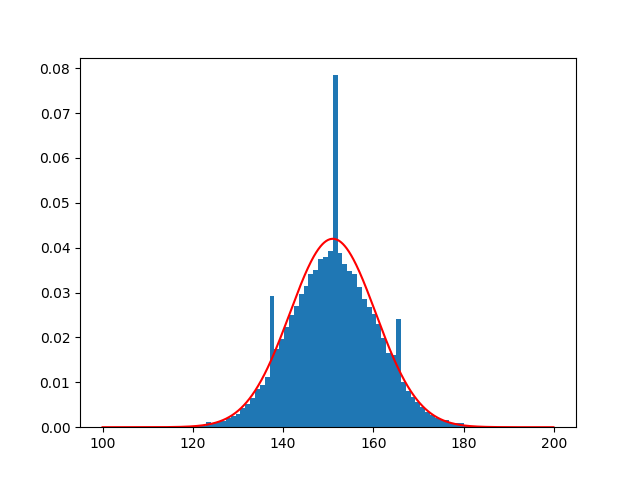
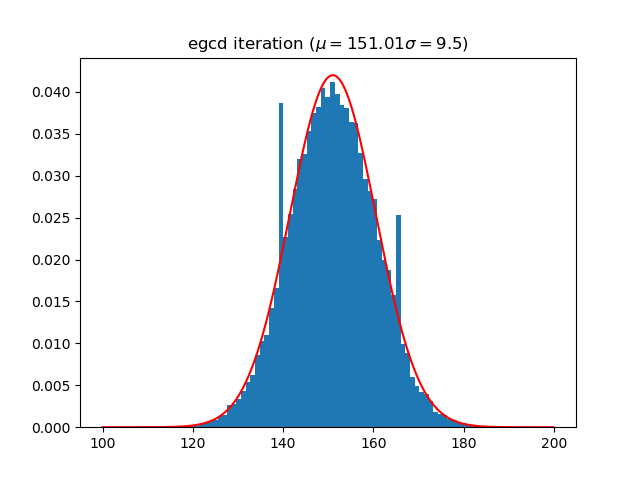
分析まで完成

diff --git a/ec_elgamal.py b/ec_elgamal.py
@@ -10,6 +10,8 @@ import inspect
 from tqdm import tqdm
 import numpy as np
 from scipy.stats import norm
+import statistics as stat
+import scipy.stats as stats
 import matplotlib.pyplot as plt
 
 # =============================
@@ -21,16 +23,17 @@ BIT = 256
 A = 0x0000000000000000000000000000000000000000000000000000000000000000
 B = 0x0000000000000000000000000000000000000000000000000000000000000007
 N = 100
+P_DOUBLE = 5/6
+P_ADD = 2/3
 LOOP = 1000
 
 # =============================
 # variables for analysis
 # =============================
-all_mult = 0
-all_reduction = 0
 egcd_count_list = []
 mult_list = []
 reduction_list = []
+total_list = []
 
 # =============================
 # classes
@@ -79,38 +82,38 @@ opr = Operation()
 # Extended Euclidean algorithm
 ### Measured value: 大体453.2496669540005
 def egcd(a: int, b: int):
-    global opr, egcd_count_list
-    (x, lastx) = (0, 1)
-    (y, lasty) = (1, 0)
+  global opr, egcd_count_list
+  (x, lastx) = (0, 1)
+  (y, lasty) = (1, 0)
 
-    egcd_count = 0
-    if calledFromElGamalDec():
-      while b != 0:
-        egcd_count += 1
-        q = opr.div(a, b)
-        (a, b) = (b, a - opr.multiply(q, b))
-        (x, lastx) = (lastx - opr.multiply(q, x), x)
-        (y, lasty) = (lasty - opr.multiply(q, y), y)
-      egcd_count_list.append(egcd_count)
-    else:
-      while b != 0:
-        q = opr.div(a, b)
-        (a, b) = (b, a - opr.multiply(q, b))
-        (x, lastx) = (lastx - opr.multiply(q, x), x)
-        (y, lasty) = (lasty - opr.multiply(q, y), y)
+  egcd_count = 0
+  if calledFromElGamalDec():
+    while b != 0:
+      egcd_count += 1
+      q = opr.div(a, b)
+      (a, b) = (b, a - opr.multiply(q, b))
+      (x, lastx) = (lastx - opr.multiply(q, x), x)
+      (y, lasty) = (lasty - opr.multiply(q, y), y)
+    egcd_count_list.append(egcd_count)
+  else:
+    while b != 0:
+      q = opr.div(a, b)
+      (a, b) = (b, a - opr.multiply(q, b))
+      (x, lastx) = (lastx - opr.multiply(q, x), x)
+      (y, lasty) = (lasty - opr.multiply(q, y), y)
 
-    # while b != 0:
-    #   q = opr.div(a, b)
-    #   (a, b) = (b, a - opr.multiply(q, b))
-    #   (x, lastx) = (lastx - opr.multiply(q, x), x)
-    #   (y, lasty) = (lasty - opr.multiply(q, y), y)
-    return (lastx, lasty, a)
+  # while b != 0:
+  #   q = opr.div(a, b)
+  #   (a, b) = (b, a - opr.multiply(q, b))
+  #   (x, lastx) = (lastx - opr.multiply(q, x), x)
+  #   (y, lasty) = (lasty - opr.multiply(q, y), y)
+  return (lastx, lasty, a)
 
 # ax ≡ 1 (mod m)
 def modinv(a: int, m: int):
-    global opr
-    (inv, _, _) = egcd(a, m)
-    return opr.modulo(inv, m) # not perform reductions.
+  global opr
+  (inv, _, _) = egcd(a, m)
+  return opr.modulo(inv, m) # not perform reductions.
 
 # return true if called from ElGamalDec
 def calledFromElGamalDec():
@@ -205,12 +208,18 @@ if __name__ == '__main__':
   d_bit_seq = bin(d)[2:]
   t = len(d_bit_seq)
   w = d_bit_seq.count("1")
-  ### normal distribution
+
+  # analysis of distributions
   alpha = (12*math.log(2)*math.log(2**BIT))/(math.pi**2) + 1.467
   iteration = (t+w-1)
-
+  root = 9.5
   mu_mult = (t-1)*(3*alpha+6)+w*(3*alpha+3)
-  sigma = 9.5*3*math.sqrt(iteration)
+  mu_reduction = alpha*(t+w-1)+3*(t-1)*P_DOUBLE+3*w*P_ADD
+  sigma_mult = 3*root*math.sqrt(iteration)
+  sigma_reduction = root*math.sqrt(iteration)
+  mu = mu_mult + mu_reduction
+  sigma = sigma_mult + sigma_reduction
+  # sigma = math.sqrt(sigma_mult**2 + sigma_reduction**2)
 
   PUBLIC_KEY = Binary(d, GP)
 
@@ -224,10 +233,9 @@ if __name__ == '__main__':
     opr.mult = 0
     opr.reduction = 0
     DecM = ElGamalDec(C1, C2, d)
-    all_mult += opr.mult
-    all_reduction += opr.reduction
     mult_list.append(opr.mult)
     reduction_list.append(opr.reduction)
+    total_list.append(opr.mult+opr.reduction)
 
     decPlaintext = PointToMsg(DecM)
     if plaintext == decPlaintext:
@@ -239,12 +247,34 @@ if __name__ == '__main__':
   print("PUBLIC_KEY = {0}".format(vars(PUBLIC_KEY)))
   print('d = {0} ({1}bits)'.format(d, t))
   print("Hamming weight of d: {0}".format(w))
-  print("alpha: {0}".format(alpha))
-  print("Average of egcd count (experimentally) = {0}".format(sum(egcd_count_list)/len(egcd_count_list)))
+  print("=================== egcd ==================")
+  print("Average of egcd count (theoretical, namely alpha): {0}".format(alpha))
+  print("Average of egcd count (experimental) = {0}".format(stat.mean(egcd_count_list)))
+  print("================== multiplication ===================")
   print("Average multiplication (theoretical) = {0}".format(mu_mult))
-  print("Average multiplication (experimentally) = {0}".format(all_mult/LOOP))
-  print("Distributed of multiplication (theoretical) = {0}".format(sigma))
-  print("Average reduction (experimentally) = {0}".format(all_reduction/LOOP))
+  print("Average multiplication (experimental) = {0}".format(stat.mean(mult_list)))
+  print("Standard deviation of multiplication (theoretical) = {0}".format(sigma_mult))
+  print("Standard deviation of multiplication (experimental) = {0}".format(stat.pstdev(mult_list)))
+  print("Variance value of multiplication (theoretical) = {0}".format(sigma_mult**2))
+  print("Variance value of multiplication (experimental) = {0}".format(stat.pvariance(mult_list)))
+  print("================== reduction ===================")
+  print("Average reduction (theoretical) = {0}".format(mu_reduction))
+  print("Average reduction (experimental) = {0}".format(stat.mean(reduction_list)))
+  print("Standard deviation of reduction (theoretical) = {0}".format(sigma_reduction))
+  print("Standard deviation of reduction (experimental) = {0}".format(stat.pstdev(reduction_list)))
+  print("Variance value of reduction (theoretical) = {0}".format(sigma_reduction**2))
+  print("Variance value of reduction (experimental) = {0}".format(stat.pvariance(reduction_list)))
+  print("================= total count ====================")
+  print("Average computation (theoretical) = {0}".format(mu))
+  print("Average computation (experimental) = {0}".format(stat.mean(total_list)))
+  print("Standard deviation of computation (theoretical) = {0}".format(sigma))
+  print("Standard deviation of computation (experimental) = {0}".format(stat.pstdev(total_list)))
+  print("Variance value of computation (theoretical) = {0}".format(sigma**2))
+  print("Variance value of computation (experimental) = {0}".format(stat.pvariance(total_list)))
+  print("================== check wheter normal distribution (p > 0.05) ===================")
+  print("multiply: {0}".format(stats.shapiro(mult_list)))
+  print("reduction: {0}".format(stats.shapiro(reduction_list)))
+  print("total count: {0}".format(stats.shapiro(total_list)))
 
 
   # ====================
@@ -253,22 +283,50 @@ if __name__ == '__main__':
 
   # multiplication (172000 ~ 176000)
   plt.hist(mult_list, bins=len(set(mult_list)), density=True)
-  X = np.arange(mu_mult-sigma*5, mu_mult+sigma*5, 1)
-  Y = norm.pdf(X, loc=mu_mult, scale=sigma)
+  X = np.arange(mu_mult-sigma_mult*5, mu_mult+sigma_mult*5, 1)
+  Y = norm.pdf(X, loc=mu_mult, scale=sigma_mult)
   plt.plot(X, Y, 'r-')
+  plt.title("multiplication ($\mu = {0} \ \ \sigma = {1}$)".format(round(mu_mult, 2), round(sigma_mult, 2)))
   plt.savefig("ec_elgamal_mult.png")
   plt.show()
 
   # reduction (57600 ~ 59200)
-  plt.hist(reduction_list, bins=len(set(reduction_list)))
+  plt.hist(reduction_list, bins=len(set(reduction_list)), density=True)
+  X = np.arange(mu_reduction-sigma_reduction*5, mu_reduction+sigma_reduction*5, 1)
+  Y = norm.pdf(X, loc=mu_reduction, scale=sigma_reduction)
+  plt.plot(X, Y, 'b-')
+  plt.title("reduction ($\mu = {0} \ \ \sigma = {1}$)".format(
+      round(mu_reduction, 2), round(sigma_reduction, 2)))
   plt.savefig("ec_elgamal_reduction.png")
+  plt.show()
+
+  # total computation
+  # mu = stat.mean(total_list)
+  # sigma = stat.pstdev(total_list)
+  plt.hist(total_list, bins=len(set(total_list)), density=True)
+  X = np.arange(mu-sigma*5, mu+sigma*5, 1)
+  Y = norm.pdf(X, loc=mu, scale=sigma)
+  plt.plot(X, Y, 'b-')
+  plt.title("reduction ($\mu = {0} \ \  \sigma = {1}$)".format(round(mu, 2), round(sigma, 2)))
+  plt.savefig("ec_elgamal_total.png")
+  plt.show()
+
+  # total computation
+  mu = stat.mean(total_list)
+  sigma = stat.pstdev(total_list)
+  plt.hist(total_list, bins=len(set(total_list)), density=True)
+  X = np.arange(mu-sigma*5, mu+sigma*5, 1)
+  Y = norm.pdf(X, loc=mu, scale=sigma)
+  plt.plot(X, Y, 'b-')
+  plt.savefig("ec_elgamal_total_sum.png")
   plt.show()
 
   # egcd_count
   plt.hist(egcd_count_list, bins=len(set(egcd_count_list)), density=True)
   X = np.arange(100, 200, 0.1)
-  Y = norm.pdf(X, loc=alpha, scale=9.5)
+  Y = norm.pdf(X, loc=alpha, scale=root)
   plt.plot(X, Y, 'r-')
+  plt.title("egcd iteration ($\mu = {0} \ \ \sigma = {1}$)".format(round(alpha, 2), round(root, 2)))
   plt.savefig("ec_elgamal_egcd_count.png")
   plt.show()
 
